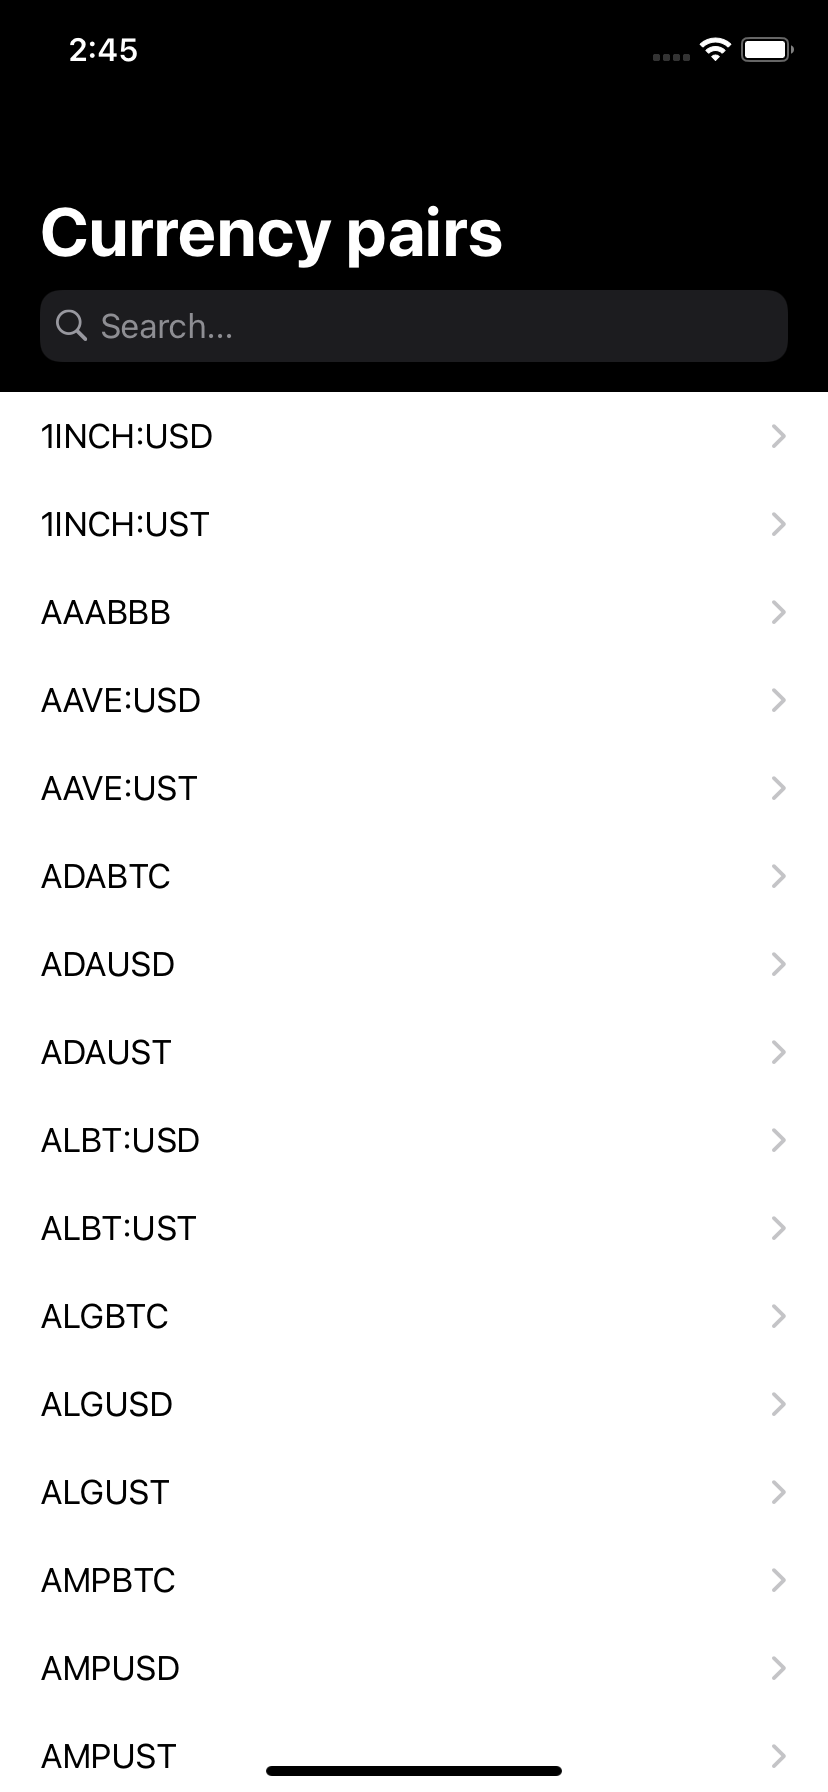
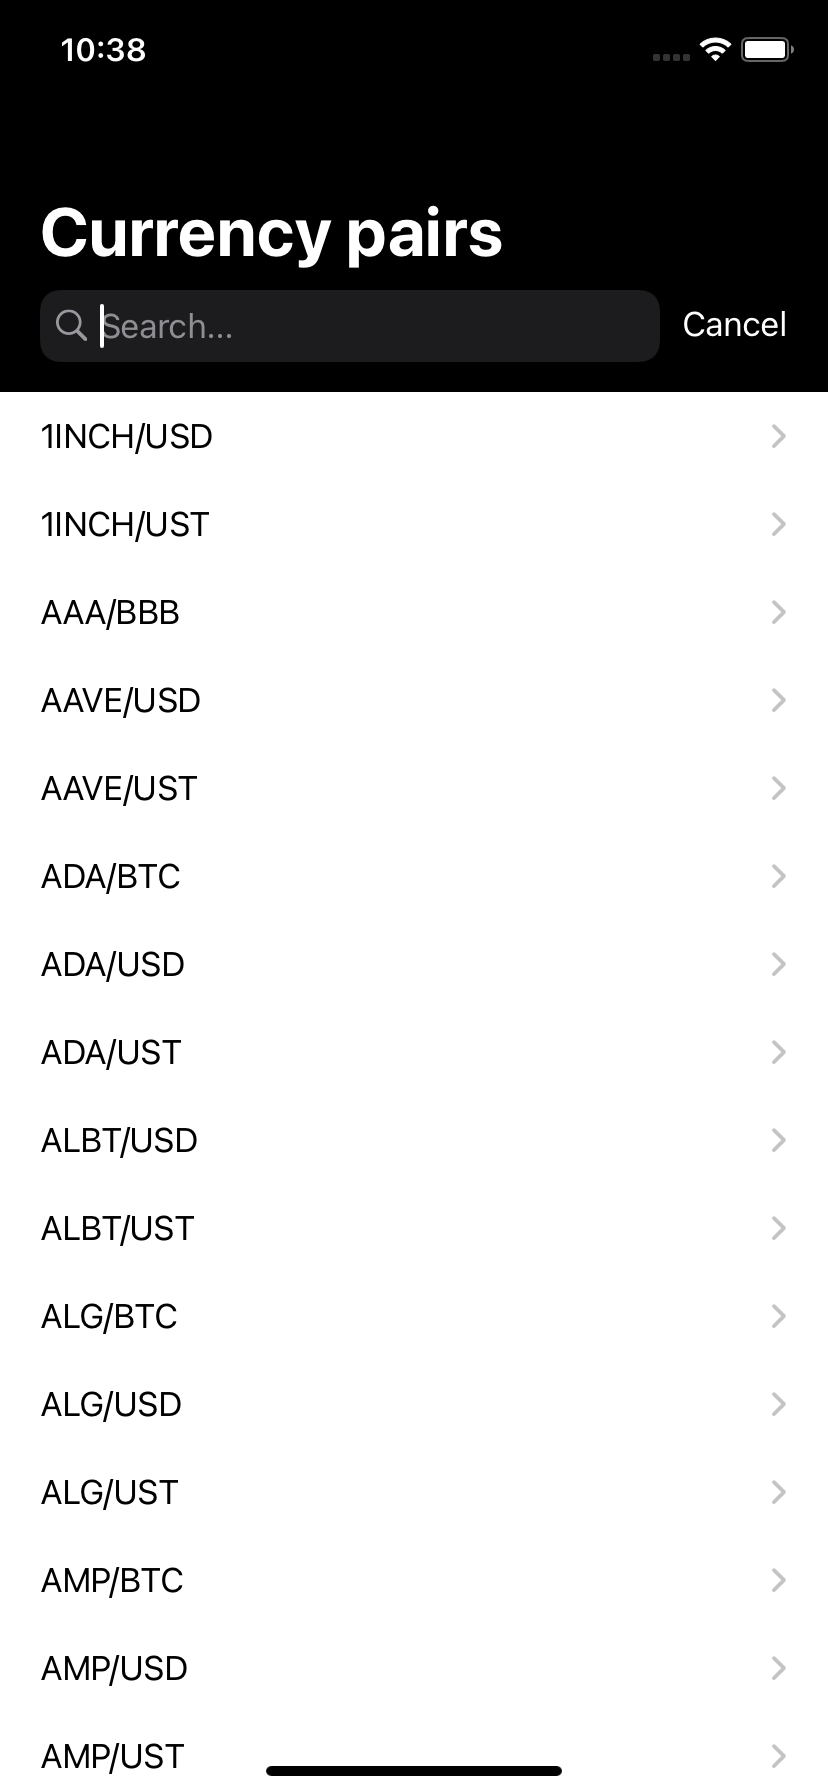
updated screenshots

diff --git a/CurrencyChart/Extensions/StringExtensions.swift b/CurrencyChart/Extensions/StringExtensions.swift
@@ -8,13 +8,22 @@
 import Foundation
 
 extension String {
-    mutating func formattedPair() -> String {
-        if let indexOfColon = self.firstIndex(of: ":") {
-            self.remove(at: indexOfColon)
-            self.insert("/", at: indexOfColon)
+    func formattedPair() -> String {
+        var pair = self
+        if let indexOfColon = pair.firstIndex(of: ":") {
+            pair.remove(at: indexOfColon)
+            pair.insert("/", at: indexOfColon)
         } else {
-            self.insert("/", at: self.index(self.startIndex, offsetBy: 3))
+            pair.insert("/", at: pair.index(pair.startIndex, offsetBy: 3))
         }
-        return self
+        return pair
+    }
+    
+    func formattedPairForRequest() -> String {
+        var pair = self
+        if let indexOfColon = pair.firstIndex(of: ":") {
+            pair.remove(at: indexOfColon)
+        }
+        return pair
     }
 }

diff --git a/CurrencyChart/Chart/View/ChartViewController.swift b/CurrencyChart/Chart/View/ChartViewController.swift
@@ -43,7 +43,7 @@ class ChartViewController: UIViewController, ChartViewControllerInput {
     }
     
     func configureUI() {
-        title = pair
+        title = pair.formattedPair()
         navigationItem.largeTitleDisplayMode = .never
         view.backgroundColor = .white
     }
@@ -56,7 +56,7 @@ class ChartViewController: UIViewController, ChartViewControllerInput {
         super.viewDidLoad()
         
         configureUI()
-        presenter.prepareData(pair: pair)
+        presenter.prepareData(pair: pair.formattedPairForRequest())
     }
 }
 

diff --git a/CurrencyChart/Pairs/View/PairsViewController.swift b/CurrencyChart/Pairs/View/PairsViewController.swift
@@ -94,7 +94,7 @@ extension PairsViewController: UITableViewDataSource {
     func tableView(_ tableView: UITableView, cellForRowAt indexPath: IndexPath) -> UITableViewCell {
         guard
             let cell = tableView.dequeueReusableCell(withIdentifier: PairsTableViewCell.identifier, for: indexPath) as? PairsTableViewCell,
-            var pair = viewModel.getPair(index: indexPath.row)
+            let pair = viewModel.getPair(index: indexPath.row)
         else {
             return UITableViewCell()
         }
